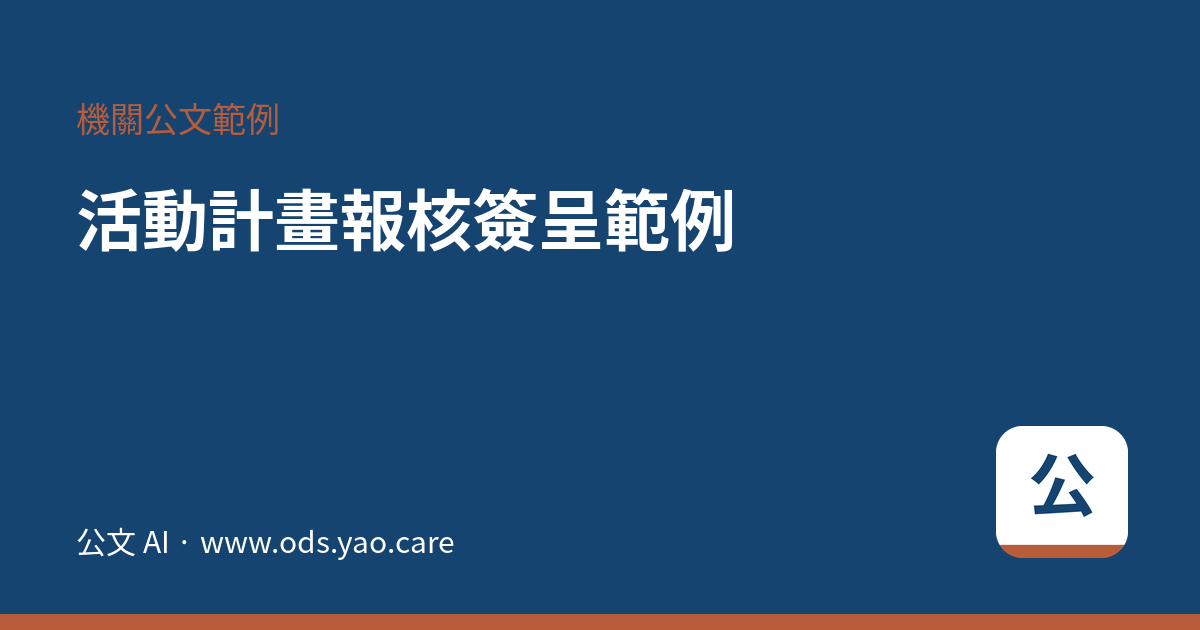
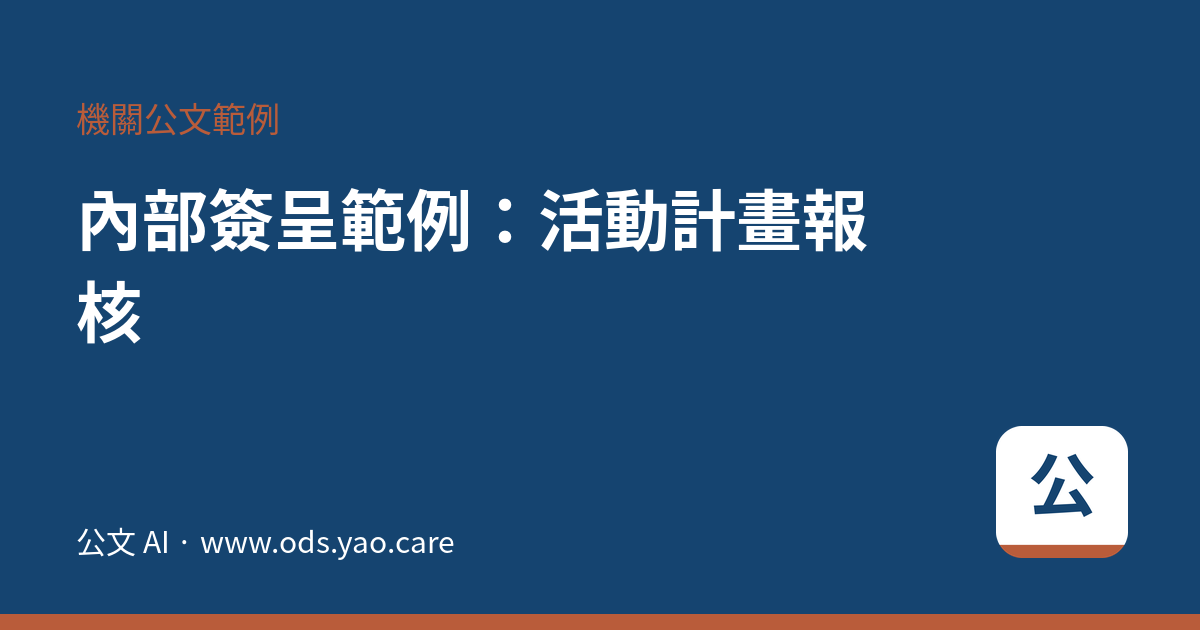
feat(seo): 依 GSC 實際查詢字校正 19 頁標題用字，不為每個 .docx 另開下載頁
上線滿月後第一次逐頁比對 GSC 的 query × page，抓到一批「排名不差但用字對不上」的頁：
本票範本排 24 而標題寫「本票範例」、「無收入聲明書範本」9 曝 0 點而標題只寫「聲明書範例」、
「物品損壞和解書範例」對上站上的「毀損」、「內部簽呈範例」11 曝落在標題寫
「活動計畫報核簽呈範例」的那頁、「漏水存證信函範本」排 4.5 而標題只寫「存證信函範例」。

依 2026-08-27 的用字結論分兩套處理：民間書件那批一律改成「範本」（借據範本 858 >
借據 435、委託書範本 347、離婚協議書範本 374 都是有量的字）；公文那批不動「範例」
兩個字（公文範本 0 而公文格式 300），只補機關實際在說的詞——內部簽呈、敘獎公文、
會勘公文、借用場地公文、會議通知單。

/templates/ 的叫法對照表補「公司發函、公司簽呈」一列：GSC 有「公司發函範例word」
3 曝 3 點與「公司簽呈範例word」2 曝 1 點落在這一頁，CTR 很高，但站上一個字都沒有。

刻意不做：不為 62 個 .docx 各開一個「<文別> word 下載」落地頁。公文單一文別主詞量
極小（開會通知單 21，公文範本是實訊 0），拆頁等於把 /templates/ 自己的訊號切碎；
民間那 11 個空白範本的文別在 /private-documents/ 已經各有一頁在吃同一組字，另開會
互搶。判定與逐頁證據寫進 docs/keyword-validation/2026-09-27-gsc-wording-correction.md，
CLAUDE.md 選字那節指過去。

沒有新增或刪除網址，seo-ops trackUrls 與 sitemap 筆數不變。
downloads.json 與 public/og/* 是隨 seoTitle 重產的產物（build:docx、gen:brand）。

Claude-Session: https://claude.ai/code/session_01UWJ4NxNTNLeMbSTp2KqVTL

Changed region(s): [[0.0617, 0.3016, 0.74, 0.4222], [0.0617, 0.4524, 0.1233, 0.5429]]

diff --git a/src/data/private-docs.js b/src/data/private-docs.js
@@ -18,7 +18,7 @@ export const PRIVATE_DOCS = [
   {
     key: 'poa_household',
     slug: 'power-of-attorney-household',
-    seoTitle: '委託書範例：代領戶籍謄本',
+    seoTitle: '戶籍謄本委託書範本：代領謄本怎麼寫',
     category: '委託與授權',
     lead: '沒空自己跑戶政事務所，請人代領謄本。承辦看的是「委託事項寫得夠不夠具體」。',
     watchOut: [
@@ -31,7 +31,7 @@ export const PRIVATE_DOCS = [
   {
     key: 'poa_vehicle',
     slug: 'power-of-attorney-vehicle',
-    seoTitle: '委託書範例：代辦車輛過戶',
+    seoTitle: '汽車過戶委託書範本：代辦車輛過戶要帶的證件',
     category: '委託與授權',
     lead: '人在國外或無法親自到監理站，委託別人辦過戶。但只有一張委託書辦不成——法規要的是證件。',
     watchOut: [
@@ -72,7 +72,7 @@ export const PRIVATE_DOCS = [
   {
     key: 'affidavit_lost',
     slug: 'affidavit-lost-document',
-    seoTitle: '切結書範例：證件遺失申請補發',
+    seoTitle: '證件遺失切結書範本：申請補發怎麼寫',
     category: '切結與聲明',
     lead: '證件遺失要補發，機關要你切結遺失屬實。遺失的時間、地點與尋找經過都要寫。',
     watchOut: [
@@ -84,7 +84,7 @@ export const PRIVATE_DOCS = [
   {
     key: 'statement_income',
     slug: 'statement-no-income',
-    seoTitle: '聲明書範例：聲明無固定工作收入',
+    seoTitle: '無收入聲明書範本：聲明無固定工作收入',
     category: '切結與聲明',
     lead: '申請社福資格時要聲明自己的收入狀況。聲明的是你知道的事實，不要把推測寫成既成事實。',
     watchOut: [
@@ -108,7 +108,7 @@ export const PRIVATE_DOCS = [
   {
     key: 'settlement_damage',
     slug: 'settlement-property-damage',
-    seoTitle: '和解書範例：物品毀損賠償',
+    seoTitle: '物品損壞和解書範本：毀損賠償怎麼寫',
     category: '和解',
     lead: '損害已經確定、金額也談好，這種才適合一次了結。範圍仍然要寫清楚到哪裡為止。',
     watchOut: [
@@ -120,9 +120,9 @@ export const PRIVATE_DOCS = [
   {
     key: 'cert_employment',
     slug: 'employment-certificate',
-    seoTitle: '在職證明書範例：辦理貸款、租屋、簽證用',
+    seoTitle: '在職證明書範本：用途怎麼寫，貸款、租屋、簽證各不同',
     category: '任職與離職證明',
-    lead: '公司開給員工的在職證明。法律沒有規定內容，決定要寫什麼的是「拿去給誰看」。',
+    lead: '公司開給員工的在職證明，租屋時對方說的工作證明也是這一份。法律沒有規定內容，決定要寫什麼的是用途——拿去給誰看。',
     watchOut: [
       '寫到職日、現職職稱與部門，並明確寫「迄今仍在職中」——這是這份文件唯一要證明的事',
       '薪資要不要寫看用途：銀行貸款通常要，租屋多半不用。沒被要求就不要主動寫',
@@ -132,7 +132,7 @@ export const PRIVATE_DOCS = [
   {
     key: 'cert_separation',
     slug: 'separation-certificate',
-    seoTitle: '非自願離職證明書範例：離職證明書（服務證明書）怎麼開、供請領失業給付',
+    seoTitle: '非自願離職證明書範本：離職證明書（服務證明書）怎麼開、供請領失業給付',
     category: '任職與離職證明',
     lead: '勞基法第 19 條規定勞工請求時雇主不得拒絕發給。要拿去請領失業給付的話，離職原因是法定必載事項；資遣這類非自願離職開的就是俗稱的「非自願離職證明書」。',
     watchOut: [
@@ -146,7 +146,7 @@ export const PRIVATE_DOCS = [
   {
     key: 'loan_iou',
     slug: 'loan-iou',
-    seoTitle: '借據範例：金額、交付與返還期限（附本票必要記載事項）',
+    seoTitle: '借據範本：金額、交付與返還期限怎麼寫',
     category: '借貸',
     lead: '借據沒有法定格式，但漏了「錢已經交付」這件事，日後要另外舉證。本票是另一回事 —— 那個可以直接聲請法院強制執行。',
     watchOut: [
@@ -159,7 +159,7 @@ export const PRIVATE_DOCS = [
   {
     key: 'promissory_note',
     slug: 'promissory-note',
-    seoTitle: '本票範例：必要記載事項與空白本票的風險',
+    seoTitle: '本票範本：必要記載事項怎麼填、空白本票的風險',
     category: '借貸',
     lead: '本票不是「比較有效的借據」——執票人可以聲請法院裁定後直接強制執行，不必先打官司。所以每一格都要填滿。',
     watchOut: [
@@ -171,7 +171,7 @@ export const PRIVATE_DOCS = [
   {
     key: 'divorce_agreement',
     slug: 'divorce-agreement',
-    seoTitle: '離婚協議書範例：兩願離婚的三個要件與未成年子女約定',
+    seoTitle: '離婚協議書範本：兩願離婚的三個要件與未成年子女約定',
     category: '婚姻',
     lead: '寫好、簽好、找到兩個證人都還沒離成——民法第 1050 條的第三個要件是「向戶政機關為離婚之登記」，而且要雙方一起去。',
     watchOut: [
@@ -190,7 +190,7 @@ export const PRIVATE_DOCS = [
   {
     key: 'shareholder_proxy',
     slug: 'shareholder-proxy',
-    seoTitle: '股東會委託書範例（非公開發行公司）',
+    seoTitle: '股東會委託書範本（非公開發行公司）',
     category: '委託與授權',
     lead: '公司法明文股東可以自己出具委託書，但要載明授權範圍。公開發行公司則相反，用紙以公司印發者為限。',
     watchOut: [

diff --git a/src/data/cases.js b/src/data/cases.js
@@ -39,9 +39,9 @@ export const CASES = [
   {
     key: 'meeting',
     slug: 'meeting-notice',
-    seoTitle: '開會通知單範例',
+    seoTitle: '開會通知單範例：公文的會議通知單怎麼填',
     category: '會議與通知',
-    lead: '開會通知單的時間、地點、出席人員各有固定欄位，寫進主旨反而不合格式。',
+    lead: '機關裡說的會議通知單就是這一份。時間、地點、出席人員各有固定欄位，寫進主旨反而不合格式。',
     watchOut: ['主旨不要以「開會通知單：」開頭', '期望語仍用「請查照」', '時間寫到星期與時分'],
     // 開會通知單的固定欄位（規範第八點）。應用產出的草稿是函的形狀 —— 時間地點寫在說明分項裡、
     // 主旨帶期望語；排成正式通知單時要拆進這些欄位。absorbedPrefixes 列出因此不再重複進備註的分項。
@@ -67,7 +67,7 @@ export const CASES = [
   {
     key: 'sign',
     slug: 'procurement-sign',
-    seoTitle: '採購簽呈範例',
+    seoTitle: '採購公文範例：採購簽呈怎麼寫',
     category: '內部簽核',
     lead: '簽是對內文書，結尾用「簽請核示」，不是對外的期望語。',
     watchOut: ['簽不需要受文者', '金額牽涉採購級距，要對照政府採購法', '擬辦事項要具體'],
@@ -83,7 +83,7 @@ export const CASES = [
   {
     key: 'personnel_award',
     slug: 'merit-award-sign',
-    seoTitle: '敘獎建議簽呈範例',
+    seoTitle: '敘獎簽呈範例：敘獎公文的擬辦怎麼寫',
     category: '內部簽核',
     lead: '建議敘獎要把具體事蹟、期間與人數寫清楚，記功與嘉獎分開列，長官才有辦法直接核定。',
     watchOut: ['具體事蹟要寫得出時間與工作內容，不能只寫「表現優良」', '記功與嘉獎的人數分別列明', '同一事由已受獎勵者不重複建議'],
@@ -107,7 +107,7 @@ export const CASES = [
   {
     key: 'procurement_request',
     slug: 'small-procurement-sign',
-    seoTitle: '請購單簽呈範例（小額採購）',
+    seoTitle: '小額採購簽呈範例：請購單怎麼簽',
     category: '內部簽核',
     lead: '金額落在哪個級距決定要走哪種程序，這是簽裡面最該先講清楚的事。',
     watchOut: ['金額要對照政府採購法的公告金額級距', '詢價家數與擬洽廠商的理由要寫', '國字大寫只用手冊附錄 3 那一組：壹貳參肆伍陸柒捌玖拾佰仟萬億'],
@@ -115,7 +115,7 @@ export const CASES = [
   {
     key: 'plan_approval',
     slug: 'activity-plan-sign',
-    seoTitle: '活動計畫報核簽呈範例',
+    seoTitle: '內部簽呈範例：活動計畫報核',
     category: '內部簽核',
     lead: '計畫報核的簽是給長官決定「辦不辦、花多少」，不是把計畫書再抄一遍。',
     watchOut: ['日期、地點、人數、經費四項要在簽裡就看得到', '計畫書列為附件，份數要寫', '擬辦段提出的是可以直接核定的方案'],
@@ -179,7 +179,7 @@ export const CASES = [
   {
     key: 'venue_loan',
     slug: 'venue-loan-memo',
-    seoTitle: '場地借用同意書函範例',
+    seoTitle: '借用場地公文範例：場地借用同意書函',
     category: '行政往來',
     lead: '同意借用要把時段與責任講死，事後才不會為了清潔或設備爭執。',
     watchOut: ['借用起訖日期與每次時段都要寫明', '清潔與設備維護責任歸屬要敘明', '復文用「復」起首'],
@@ -195,7 +195,7 @@ export const CASES = [
   {
     key: 'site_survey_meeting',
     slug: 'site-survey-notice',
-    seoTitle: '會勘通知單範例',
+    seoTitle: '會勘通知單範例：會勘公文怎麼寫',
     category: '會議與通知',
     lead: '會勘通知的地點要寫到路口與集合方式，不然與會單位會找不到人。',
     watchOut: ['地點寫到路口並註明現場集合', '請與會單位帶什麼資料寫在備註', '開會事由不要以文別開頭，也不帶期望語'],

diff --git a/src/data/citizen-examples.js b/src/data/citizen-examples.js
@@ -263,7 +263,7 @@ export const CITIZEN_EXAMPLES = [
     slug: 'certified-letter-repair',
     family: 'notice',
     category: '個人／企業之間',
-    seoTitle: '存證信函範例｜催告租屋漏水修繕',
+    seoTitle: '漏水存證信函範本｜催告租屋漏水修繕',
     lead: '通知出租人房屋問題的發生時間、影響範圍與希望完成修繕的期限。',
     watchOut: ['記錄漏水或其他瑕疵發生的時間與位置', '附上照片、報修紀錄等可供確認的資料', '請求事項要寫成可執行的檢查、修繕與回覆內容'],
     scenario: scenario(

diff --git a/docs/keyword-validation/2026-09-27-gsc-wording-correction.md b/docs/keyword-validation/2026-09-27-gsc-wording-correction.md
@@ -1,0 +1,69 @@
+# 2026-09-27：用 GSC 實際查詢字回頭校正標題用字（選字四步的第 4 步）
+
+起因：站台上線滿月後第一次逐頁比對 GSC 的 query × page，發現**排名不差但用字對不上**的一批頁。
+近 28 天（08-27～09-24）全站曝光 10,509、點擊 217（前一個 28 天是 24 曝光、0 點擊），
+流量集中在 `/templates/`（66 點擊）、`/receipt/`（59）、`/private-documents/`（32）。
+
+## 這一輪刻意不做的：不為每個 .docx 各開一個下載落地頁
+
+`public/downloads/**` 有 62 個 .docx，其中 46 個已經有自己的內容頁（cases 23、citizens 9、private 14），
+另外 16 個空白範本掛在 `/templates/` 一頁上。「每個檔各開一頁、鎖定〈文別〉word 下載」這個念頭被下面三件事否掉：
+
+- **公文族群的單一文別沒有量**：`2026-08-27-combo-zero-resolved.md` 量到「公文範本」是實訊 0
+  （中文＋中文組合，不是 API 切不出來的那種 0），市場的詞是「公文格式」300；
+  「開會通知單」主詞本身只有 21。拆成 5 頁是把 `/templates/` 自己的訊號切碎去搶 21 的字。
+  同一份文件對「公文格式 word」的處置已經是「站上 `/templates/` 已經在做這個意圖，**維持現狀即可**」。
+- **民間書件那幾個文別有量，但站上已經各有一頁在吃**（委託書 1,865／切結書 958／和解書 829／
+  借據範本 858）。再開一個「委託書空白範本」頁是自己跟自己互搶，而 09-26 的反思才剛確認
+  全站沒有任何一個查詢對應兩個以上網址。
+- 同型判例三次都選不另開頁：出差旅費的相鄰字（`2026-08-26-demand.md`）、問句型
+  （`2026-08-27-combo-zero-resolved.md`）、人工智慧基本法（`2026-08-28-demand.md`）。
+
+## 真正的缺口：既有頁的標題少了市場在搜的那個詞
+
+GSC 逐頁實證（近 56 天），左邊是查詢字，右邊是當時的頁面標題：
+
+| 查詢字 | 曝光／點擊／排名 | 原標題 | 缺的字 |
+|---|---|---|---|
+| 本票範本 | 31／0／24.3 | 本票**範例**：必要記載事項與空白本票的風險 | 範本 |
+| 借據範本下載word、借據 範本 | 2／1／16.5、3／0／47.0 | 借據**範例**：金額、交付與返還期限（附本票必要記載事項） | 範本 |
+| 無收入聲明書範本 | 9／0／9.1 | **聲明書範例**：聲明無固定工作收入 | 無收入聲明書、範本 |
+| 物品**損壞**和解書範例 | 13／1／8.2 | 和解書範例：物品**毀損**賠償 | 損壞 |
+| 在職證明**用途怎麼寫**、租屋工作證明範本 | 5／0／8.8、5／0／10.6 | 在職證明書範例：辦理貸款、租屋、簽證用 | 用途怎麼寫、工作證明 |
+| 資遣證明書範本、服務證明書範本勞工局 | 各 1／0／11～34 | 非自願離職證明書**範例**：… | 範本 |
+| 汽車過戶委託書範本、過戶委託書 | 4／0／9.8、3／0／10.7 | **委託書範例**：代辦車輛過戶 | 汽車過戶、範本 |
+| 戶籍謄本委託書word | 1／0／11.0 | **委託書範例**：代領戶籍謄本 | 戶籍謄本委託書 |
+| 非公開發行公司股東會委託書範本 | 9／2／7.0 | 股東會委託書**範例**（非公開發行公司） | 範本 |
+| 本票遺失切結書範本 | 2／0／13.0 | **切結書範例**：證件遺失申請補發 | 證件遺失切結書、範本 |
+| 公文開會通知單範例、會議通知單範本 | 7／0／10.4、5／0／9.2 | 開會通知單範例 | 公文、會議通知單 |
+| 內部簽呈範例 | 11／0／10.0 | **活動計畫報核**簽呈範例 | 內部簽呈 |
+| 敘獎簽呈範例、敘獎公文擬辦 | 6／1／7.3、5／0／1.0 | 敘獎**建議**簽呈範例 | 敘獎簽呈、敘獎公文 |
+| 小額採購簽呈、小額採購簽範本 | 5／0／11.6、2／0／15.5 | **請購單簽呈範例（小額採購）** | 小額採購簽呈放前面 |
+| 會勘通知單範例、會勘公文範例 | 3／0／5.7、1／0／1.0 | 會勘通知單範例 | 會勘公文 |
+| 借用場地公文、借用場地公文範例 | 各 1／0／20～25 | **場地借用同意書函**範例 | 借用場地公文 |
+| 採購公文範例 | 2／0／45.0 | 採購**簽呈**範例 | 採購公文 |
+| 漏水存證信函範本 | 8／2／4.5 | **存證信函範例**｜催告租屋漏水修繕 | 漏水存證信函、範本 |
+
+依據的用字結論（`2026-08-27-combo-zero-resolved.md` 第 4 點）：
+**「範本／範例」後綴在民間書件是主要搜法**（借據範本 858 > 借據 435、收據範本 647、
+委託書範本 347、離婚協議書範本 374），**在公文則不是**（公文範本 0 而公文格式 300）。
+所以這一輪民間書件那批一律改成「範本」，公文那批**沒有動「範例」兩個字**，
+只把機關實際在說的詞（內部簽呈、敘獎公文、會勘公文、借用場地公文、會議通知單）補進標題。
+
+## 動了哪些檔
+
+`src/data/private-docs.js`（11 個 seoTitle ＋ 在職證明的 lead）、
+`src/data/cases.js`（7 個 seoTitle ＋ 開會通知單的 lead）、
+`src/data/citizen-examples.js`（1 個 seoTitle）、
+`src/pages/templates/index.astro`（叫法對照表補「公司發函、公司簽呈」一列——
+GSC 有「公司發函範例word」3 曝 3 點與「公司簽呈範例word」2 曝 1 點落在這一頁，CTR 很高）。
+`src/data/downloads.json` 與 `public/og/*` 是隨 seoTitle 重產的產物（`pnpm build:docx`、`pnpm gen:brand`）。
+
+沒有新增或刪除任何網址，所以 `seo-ops` 的 `trackUrls` 與 sitemap 筆數不變。
+
+## 下一輪回頭看什麼
+
+這批字現在的名次是上面那張表的第二欄。資料視窗越過 2026-09-27 之後（約 10 月上旬），
+同一支查詢重跑一次，看的是**這些字的名次與點閱率**，不是全站曝光。
+名次沒動就代表用字不是瓶頸，要回去看 `2026-08-28-demand.md` 的判定
+（當時診斷「缺的不是內容，是排名」，而站外訊號那條用戶已明示不走）。
